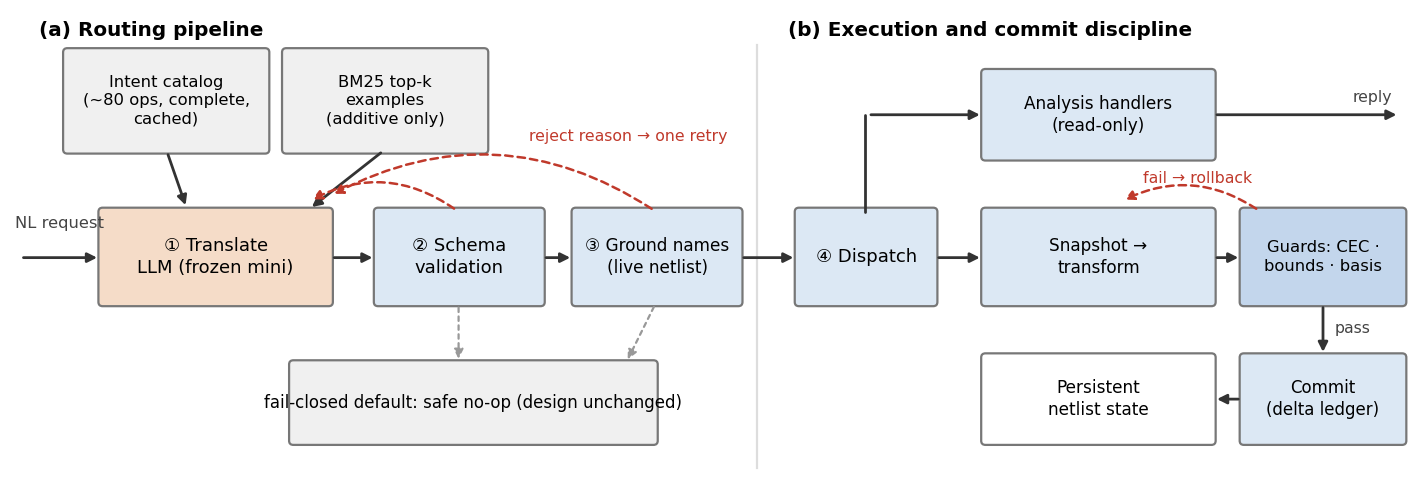
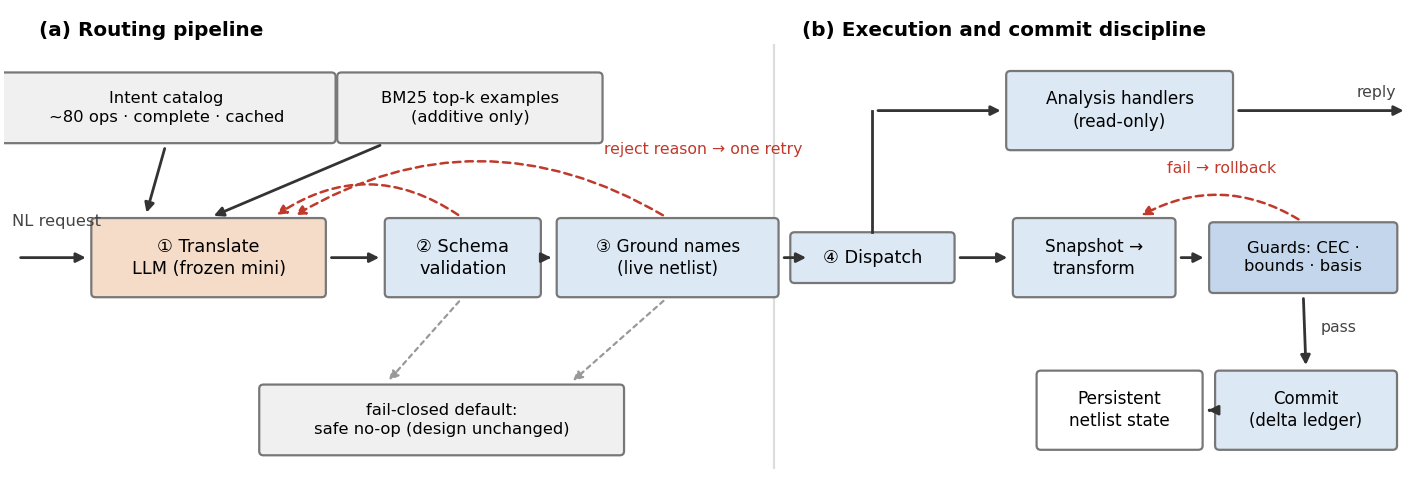
figs: TikZ-style auto-fitted nodes — text can never overflow its box; clean two-panel layout

Changed region(s): [[0.0, 0.09, 0.9915, 0.93], [0.5577, 0.03, 0.8676, 0.09]]

diff --git a/paper/figs/make_fig_arch.py b/paper/figs/make_fig_arch.py
@@ -1,6 +1,6 @@
 #!/usr/bin/env python3
-"""Fig. 1 — two panels: (a) routing pipeline, (b) execution & commit discipline.
-Grid-aligned boxes; horizontal/vertical arrows only; one dashed style per meaning."""
+"""Fig. 1 — two panels, TikZ-style auto-fitted nodes (box drawn around measured
+text, so text can never overflow). Arrows anchor to measured box edges."""
 import matplotlib.pyplot as plt
 import matplotlib as mpl
 from matplotlib.patches import FancyBboxPatch, FancyArrowPatch
@@ -11,66 +11,78 @@ EDGE, RED, GY = '#777777', '#C0392B', '#999999'
 
 fig, ax = plt.subplots(figsize=(7.1, 2.5), dpi=200)
 ax.set_xlim(0, 10); ax.set_ylim(0, 3.55); ax.axis('off')
+fig.canvas.draw()
+REN = fig.canvas.get_renderer()
 
-def box(x, y, w, h, text, fc, fs=6.5):
-    ax.add_patch(FancyBboxPatch((x, y), w, h, boxstyle='round,pad=0.03',
-                                fc=fc, ec=EDGE, lw=0.8, zorder=2))
-    ax.text(x+w/2, y+h/2, text, ha='center', va='center', fontsize=fs,
-            zorder=3, linespacing=1.3)
+class Node:
+    def __init__(self, cx, cy, text, fc, fs=6.4, padx=0.10, pady=0.07):
+        t = ax.text(cx, cy, text, ha='center', va='center', fontsize=fs,
+                    zorder=3, linespacing=1.3)
+        bb = t.get_window_extent(renderer=REN).transformed(ax.transData.inverted())
+        self.x0, self.x1 = bb.x0 - padx, bb.x1 + padx
+        self.y0, self.y1 = bb.y0 - pady, bb.y1 + pady
+        ax.add_patch(FancyBboxPatch((self.x0, self.y0), self.x1-self.x0,
+                     self.y1-self.y0, boxstyle='round,pad=0.03',
+                     fc=fc, ec=EDGE, lw=0.8, zorder=2))
+    @property
+    def cx(self): return (self.x0+self.x1)/2
+    @property
+    def cy(self): return (self.y0+self.y1)/2
+    def L(self, dy=0): return (self.x0-0.03, self.cy+dy)
+    def R(self, dy=0): return (self.x1+0.03, self.cy+dy)
+    def T(self, dx=0): return (self.cx+dx, self.y1+0.03)
+    def B(self, dx=0): return (self.cx+dx, self.y0-0.03)
 
 def arr(p, q, color='#333333', ls='-', lw=1.0, rad=0.0):
     ax.add_patch(FancyArrowPatch(p, q, arrowstyle='-|>', mutation_scale=7,
                  color=color, ls=ls, lw=lw, connectionstyle=f'arc3,rad={rad}', zorder=4))
 
 def elbow(p, mid, q, color='#333333', lw=1.0):
-    ax.plot([p[0], mid[0]], [p[1], mid[1]], color=color, lw=lw, zorder=4,
-            solid_capstyle='round')
+    ax.plot([p[0], mid[0]], [p[1], mid[1]], color=color, lw=lw, zorder=4)
     arr(mid, q, color=color, lw=lw)
 
-# ---------- panel titles & divider ----------
 ax.text(0.25, 3.32, '(a) Routing pipeline', fontsize=7.2, fontweight='bold')
-ax.text(5.55, 3.32, '(b) Execution and commit discipline', fontsize=7.2, fontweight='bold')
-ax.plot([5.33, 5.33], [0.2, 3.25], color='#DDDDDD', lw=0.8)
+ax.text(5.65, 3.32, '(b) Execution and commit discipline', fontsize=7.2, fontweight='bold')
+ax.plot([5.45, 5.45], [0.2, 3.25], color='#DDDDDD', lw=0.8)
 
-# ---------- panel (a) ----------
-box(0.45, 2.50, 1.40, 0.70, 'Intent catalog\n(~80 ops, complete,\ncached)', GRAY, 5.9)
-box(2.00, 2.50, 1.40, 0.70, 'BM25 top-k\nexamples\n(additive only)', GRAY, 5.9)
-box(0.70, 1.40, 1.60, 0.65, '① Translate\nLLM (frozen mini)', ORANGE)
-box(2.65, 1.40, 1.15, 0.65, '② Schema\nvalidation', BLUE)
-box(4.05, 1.40, 1.15, 0.65, '③ Ground names\n(live netlist)', BLUE, 6.1)
-box(2.05, 0.40, 2.55, 0.55, 'fail-closed default: safe no-op (design unchanged)', GRAY, 6.0)
+# ---- panel (a)
+cat = Node(1.15, 2.80, 'Intent catalog\n~80 ops · complete · cached', GRAY, 5.9)
+ex  = Node(3.30, 2.80, 'BM25 top-k examples\n(additive only)', GRAY, 5.9)
+tr  = Node(1.45, 1.72, '① Translate\nLLM (frozen mini)', ORANGE)
+sc  = Node(3.25, 1.72, '② Schema\nvalidation', BLUE)
+gr  = Node(4.70, 1.72, '③ Ground names\n(live netlist)', BLUE, 6.1)
+no  = Node(3.10, 0.55, 'fail-closed default:\nsafe no-op (design unchanged)', GRAY, 5.9)
 
-ax.text(0.08, 1.93, 'NL request', fontsize=5.9, color='#444444')
-arr((0.10, 1.72), (0.70, 1.72))
-arr((1.15, 2.50), (1.30, 2.06))                      # catalog -> translate
-arr((2.70, 2.50), (2.15, 2.06))                      # examples -> translate
-arr((2.30, 1.72), (2.65, 1.72))
-arr((3.80, 1.72), (4.05, 1.72))
-arr((5.20, 1.72), (5.63, 1.72))                      # -> dispatch (panel b)
-arr((3.22, 2.05), (2.15, 2.12), color=RED, ls=(0, (3, 2)), lw=0.9, rad=0.32)
-arr((4.62, 2.05), (2.30, 2.16), color=RED, ls=(0, (3, 2)), lw=0.9, rad=0.30)
-ax.text(4.42, 2.56, 'reject reason → one retry', fontsize=5.7, color=RED, ha='center')
-arr((3.22, 1.40), (3.22, 0.95), color=GY, ls=(0, (2, 2)), lw=0.8)
-arr((4.62, 1.40), (4.40, 0.95), color=GY, ls=(0, (2, 2)), lw=0.8)
+ax.text(0.06, 1.95, 'NL request', fontsize=5.9, color='#444444')
+arr((0.08, 1.72), tr.L())
+arr(cat.B(), tr.T(-0.45))
+arr(ex.B(-0.6), tr.T(0.0))
+arr(tr.R(), sc.L()); arr(sc.R(), gr.L())
+arr(gr.R(), (5.72, 1.72))
+arr(sc.T(), tr.T(0.45), color=RED, ls=(0, (3, 2)), lw=0.9, rad=0.35)
+arr(gr.T(), tr.T(0.58), color=RED, ls=(0, (3, 2)), lw=0.9, rad=0.30)
+ax.text(4.95, 2.47, 'reject reason → one retry', fontsize=5.7, color=RED, ha='center')
+arr(sc.B(), no.T(-0.4), color=GY, ls=(0, (2, 2)), lw=0.8)
+arr(gr.B(), no.T(0.9), color=GY, ls=(0, (2, 2)), lw=0.8)
 
-# ---------- panel (b) ----------
-box(5.63, 1.40, 0.95, 0.65, '④ Dispatch', BLUE)
-box(6.95, 2.45, 1.60, 0.60, 'Analysis handlers\n(read-only)', BLUE, 6.1)
-box(6.95, 1.40, 1.60, 0.65, 'Snapshot →\ntransform', BLUE, 6.1)
-box(8.78, 1.40, 1.12, 0.65, 'Guards: CEC ·\nbounds · basis', DBLUE, 5.9)
-box(8.78, 0.40, 1.12, 0.60, 'Commit\n(delta ledger)', BLUE, 6.0)
-box(6.95, 0.40, 1.60, 0.60, 'Persistent\nnetlist state', 'white', 6.1)
+# ---- panel (b)
+dp = Node(6.15, 1.72, '④ Dispatch', BLUE)
+an = Node(7.90, 2.78, 'Analysis handlers\n(read-only)', BLUE, 6.1)
+mu = Node(7.72, 1.72, 'Snapshot →\ntransform', BLUE, 6.1)
+gd = Node(9.20, 1.72, 'Guards: CEC ·\nbounds · basis', DBLUE, 5.9)
+cm = Node(9.22, 0.62, 'Commit\n(delta ledger)', BLUE, 6.0)
+st = Node(7.90, 0.62, 'Persistent\nnetlist state', 'white', 6.1)
 
-elbow((6.10, 2.05), (6.10, 2.75), (6.95, 2.75))      # dispatch -> analysis
-arr((6.58, 1.72), (6.95, 1.72))                      # dispatch -> mutation
-arr((8.55, 1.72), (8.78, 1.72))                      # transform -> guards
-arr((9.34, 1.40), (9.34, 1.00))                      # guards -pass-> commit
-ax.text(9.42, 1.18, 'pass', fontsize=5.7, color='#444444')
-arr((8.78, 0.70), (8.55, 0.70))                      # commit -> state
-arr((8.90, 2.05), (7.90, 2.12), color=RED, ls=(0, (3, 2)), lw=0.9, rad=0.30)
-ax.text(8.45, 2.26, 'fail → rollback', fontsize=5.7, color=RED, ha='center')
-arr((8.55, 2.75), (9.90, 2.75))                      # analysis reply
-ax.text(9.55, 2.84, 'reply', fontsize=5.7, color='#444444')
+elbow(dp.T(), (dp.cx, an.cy), an.L())
+arr(dp.R(), mu.L())
+arr(mu.R(), gd.L())
+arr(gd.B(), cm.T())
+ax.text(gd.cx+0.12, (gd.y0+cm.y1)/2, 'pass', fontsize=5.7, color='#444444')
+arr(cm.L(), st.R())
+arr(gd.T(), mu.T(0.3), color=RED, ls=(0, (3, 2)), lw=0.9, rad=0.30)
+ax.text(8.62, 2.33, 'fail → rollback', fontsize=5.7, color=RED, ha='center')
+arr(an.R(), (9.95, an.cy))
+ax.text(9.58, an.cy+0.10, 'reply', fontsize=5.7, color='#444444')
 
 fig.tight_layout(pad=0.2)
 fig.savefig('fig_arch.pdf'); fig.savefig('fig_arch.png')
